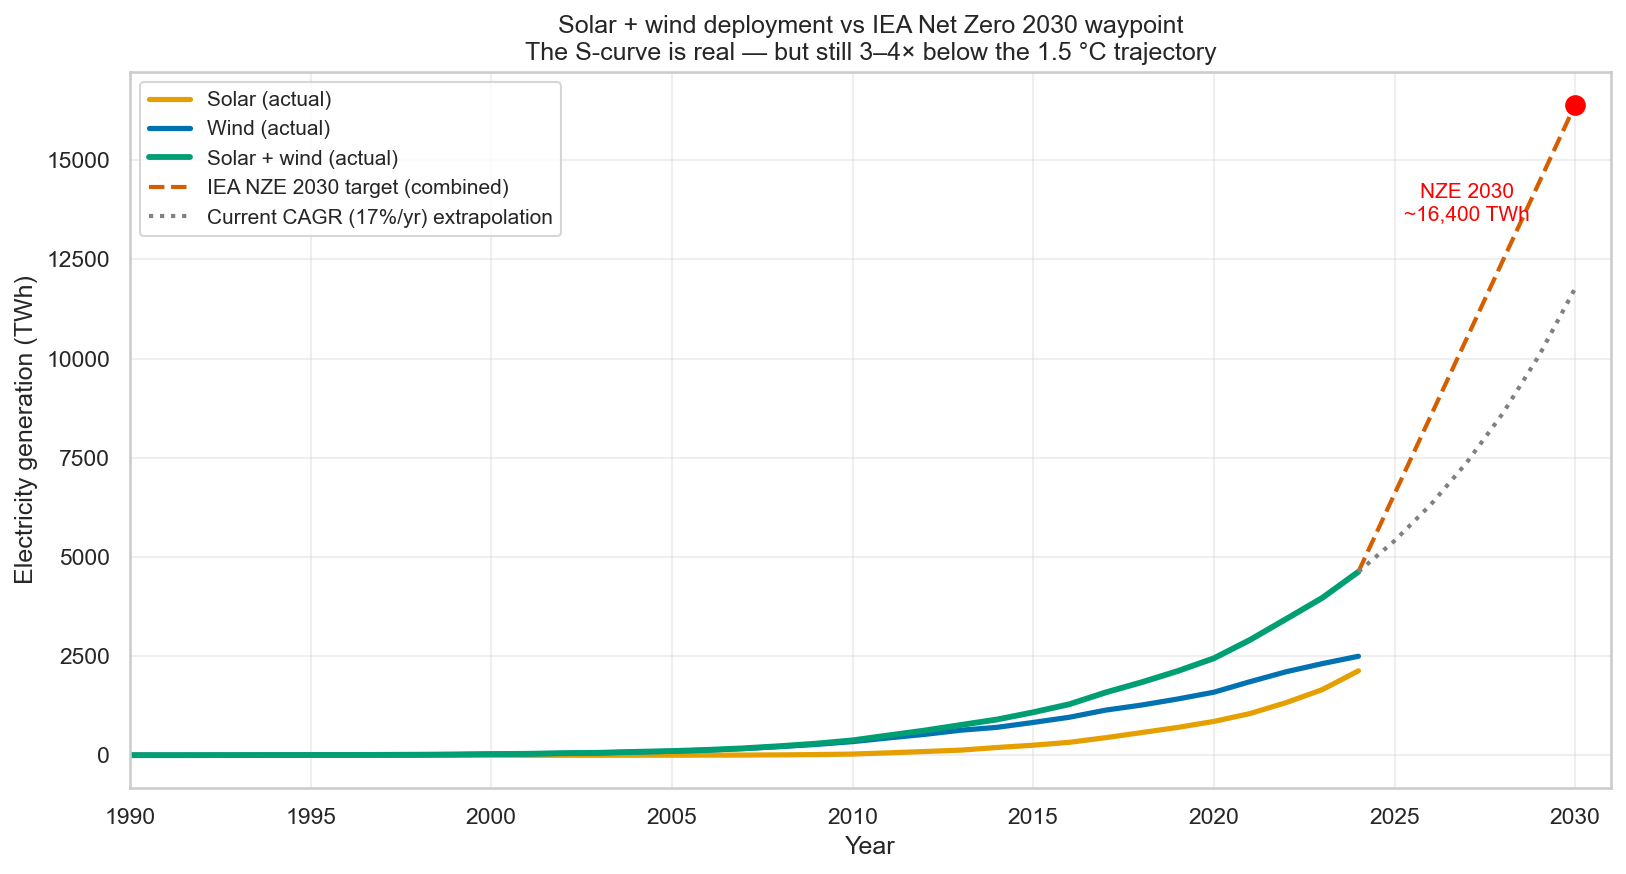
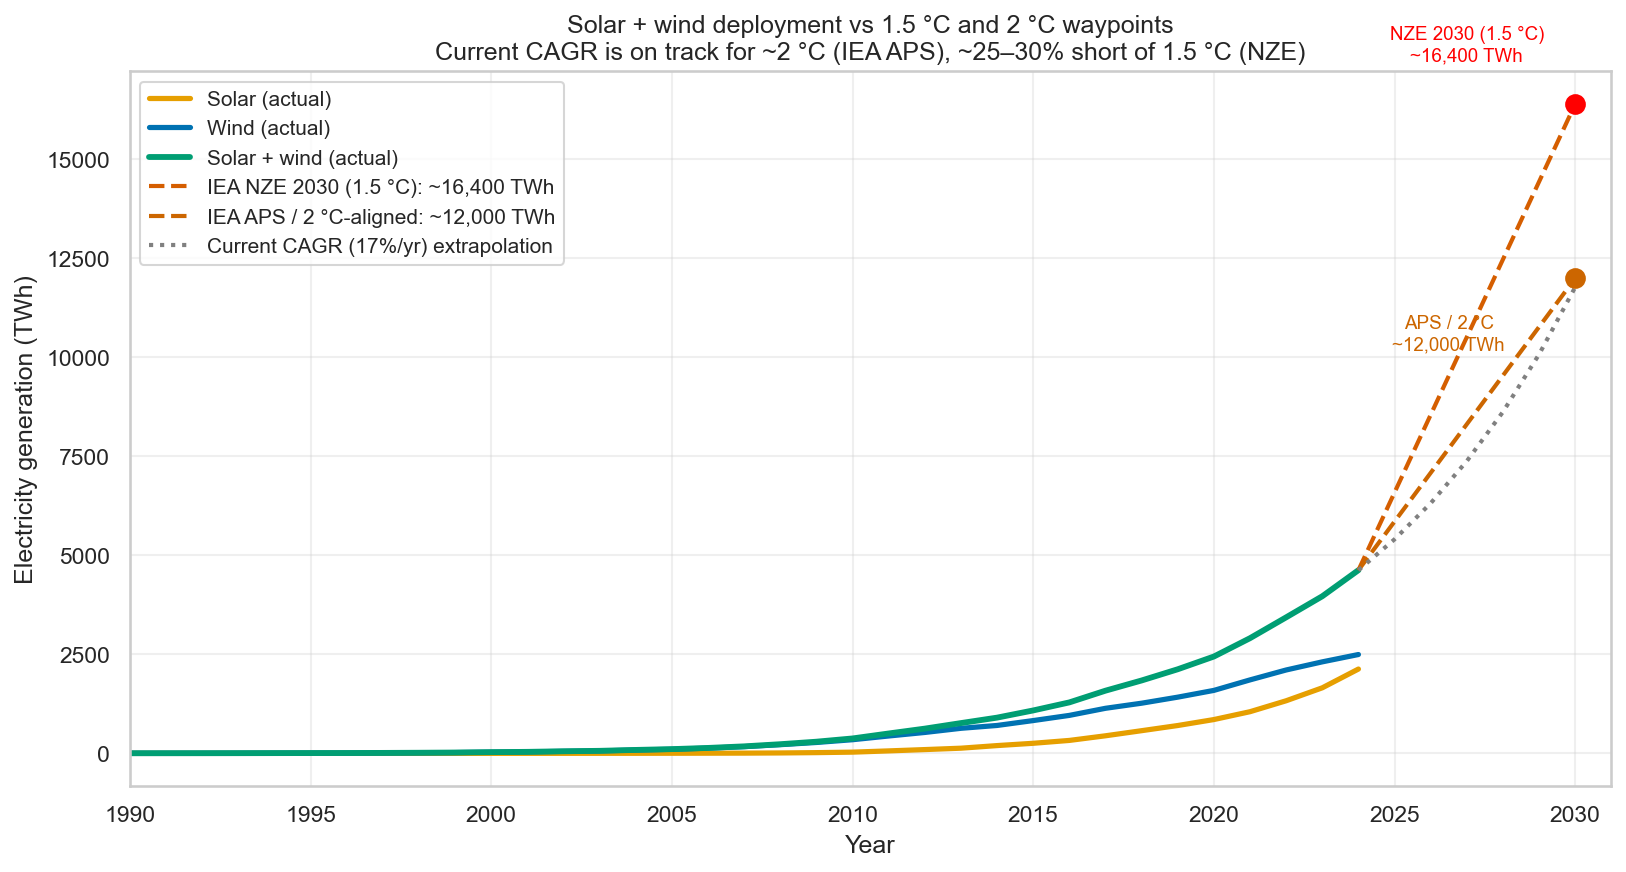
Chart 83: add IEA APS / 2°C-aligned pathway alongside NZE

diff --git a/analysis/run_analysis_17.py b/analysis/run_analysis_17.py
@@ -154,17 +154,31 @@ if not world.empty and "solar_electricity" in world.columns:
         color="#009e73",
     )
 
-    # NZE waypoints: 2024 actual ≈ 4,400 TWh (combined), 2030 target ≈ 16,400 TWh
+    # NZE waypoints: 2024 actual ≈ 4,600 TWh (combined), 2030 NZE ≈ 16,400 TWh.
+    # 2 °C-aligned waypoint: IEA Announced Pledges Scenario (APS, ~1.7 °C) and
+    # IPCC AR6 2 °C-consistent pathways put solar+wind at ~12,000 TWh by 2030.
+    current = sw["combined"].iloc[-1] if len(sw) else 4600
     nze_years = [2024, 2030]
-    nze_values = [sw["combined"].iloc[-1] if len(sw) else 4400, 16400]
-    ax.plot(nze_years, nze_values, "r--", lw=2, label="IEA NZE 2030 target (combined)")
+    nze_values = [current, 16400]
+    aps_values = [current, 12000]
+    ax.plot(nze_years, nze_values, "r--", lw=2, label="IEA NZE 2030 (1.5 °C): ~16,400 TWh")
+    ax.plot(nze_years, aps_values, "--", color="#cc6600", lw=2, label="IEA APS / 2 °C-aligned: ~12,000 TWh")
     ax.scatter([2030], [16400], color="red", s=80, zorder=5)
+    ax.scatter([2030], [12000], color="#cc6600", s=80, zorder=5)
     ax.annotate(
-        "NZE 2030\n~16,400 TWh",
+        "NZE 2030 (1.5 °C)\n~16,400 TWh",
         xy=(2030, 16400),
-        xytext=(2027, 13500),
-        fontsize=10,
+        xytext=(2027, 17500),
+        fontsize=9,
         color="red",
+        ha="center",
+    )
+    ax.annotate(
+        "APS / 2 °C\n~12,000 TWh",
+        xy=(2030, 12000),
+        xytext=(2026.5, 10200),
+        fontsize=9,
+        color="#cc6600",
         ha="center",
     )
 
@@ -189,8 +203,8 @@ if not world.empty and "solar_electricity" in world.columns:
     ax.set_xlabel("Year")
     ax.set_ylabel("Electricity generation (TWh)")
     ax.set_title(
-        "Solar + wind deployment vs IEA Net Zero 2030 waypoint\n"
-        "The S-curve is real — but still 3–4× below the 1.5 °C trajectory",
+        "Solar + wind deployment vs 1.5 °C and 2 °C waypoints\n"
+        "Current CAGR is on track for ~2 °C (IEA APS), ~25–30% short of 1.5 °C (NZE)",
         fontsize=12,
     )
     ax.legend(loc="upper left", fontsize=10)

diff --git a/README.md b/README.md
@@ -269,7 +269,7 @@ The preceding subsection makes a portfolio argument; this one stress-tests it ag
 **Deployment vs. required trajectory.** Combined solar + wind generation reached ~4,600 TWh in 2024, up from ~30 TWh in 2000 — an extraordinary S-curve by any historical standard. The IEA's 1.5 °C-consistent Net Zero scenario calls for roughly 16,400 TWh by 2030, i.e. a further 3.5× increase in six years. At the current ~17%/yr CAGR, 2030 generation reaches ~12,000 TWh — closer than most critics allow, but still 25–30% short of the NZE waypoint. "On an S-curve" and "on track for 1.5 °C" are not the same statement, and the document earlier conflated them.
 
 ![Solar and wind vs NZE 2030 target](charts/83_solar_wind_vs_nze.png)
-*Solar + wind reached 4,628 TWh in 2024 — a real S-curve — but the IEA Net Zero 2030 waypoint is ~16,400 TWh. The current 17%/yr CAGR extrapolation reaches ~12,000 TWh by 2030, roughly 70–75% of the 1.5 °C-consistent trajectory. The honest framing is "on an S-curve, and fast by historical standards, but short of 1.5 °C on present trajectory." Whether the trajectory is compatible with 2 °C requires a separate comparison against a 2 °C-aligned pathway, which this chart does not show.*
+*Solar + wind reached 4,628 TWh in 2024 — a real S-curve — but the IEA Net Zero 2030 waypoint (1.5 °C-consistent) is ~16,400 TWh. The current 17%/yr CAGR extrapolation reaches ~12,000 TWh by 2030, which roughly matches the IEA Announced Pledges Scenario (APS, ~1.7 °C) and IPCC AR6 2 °C-consistent pathways. The honest framing: on the present trajectory the world is approximately on track for ~2 °C (APS) but ~25–30% short of 1.5 °C (NZE). "Fast by historical standards" and "on track for 1.5 °C" are not the same statement.*
 
 **Primary energy tells a harder story than electricity.** Most of the celebratory solar numbers are in the electricity frame, where solar+wind are now ~14% of global generation. But electricity is only ~20% of *final* energy consumption. In primary-energy terms, fossil fuels fell from 94% in 1965 to ~82% in 2024. That 12-point decline is a real structural shift, but the S-curve's *absolute* displacement of fossils is modest: total fossil consumption is still higher than at any earlier date in history because new renewable supply has mostly been *additive* to fossils rather than substitutive. Vaclav Smil's long-running critique — that energy transitions take 50–100 years to reshape primary-energy mix — remains empirically supported through 2024; the claim that this transition is faster survives only if the next decade bends the fossil curve sharply downward, which will require the storage and grid build-out described below actually to arrive.
 
